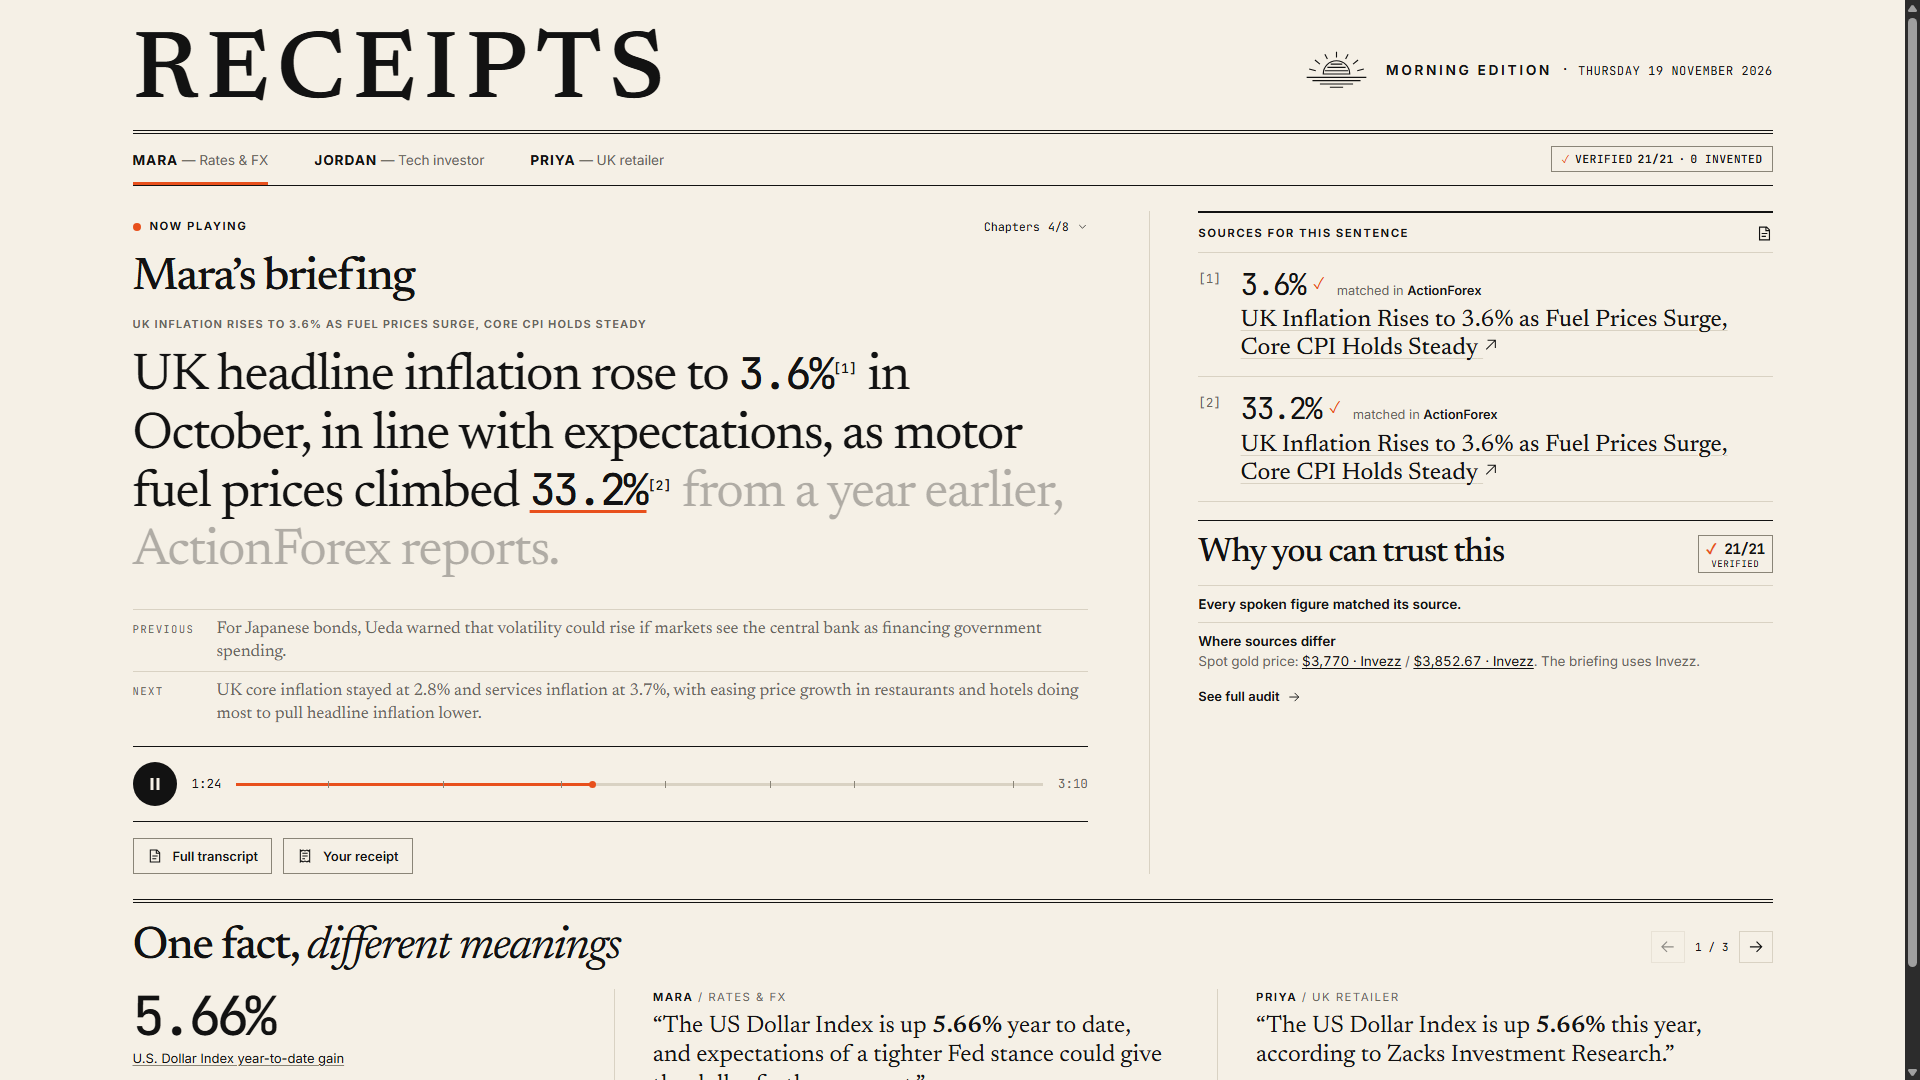
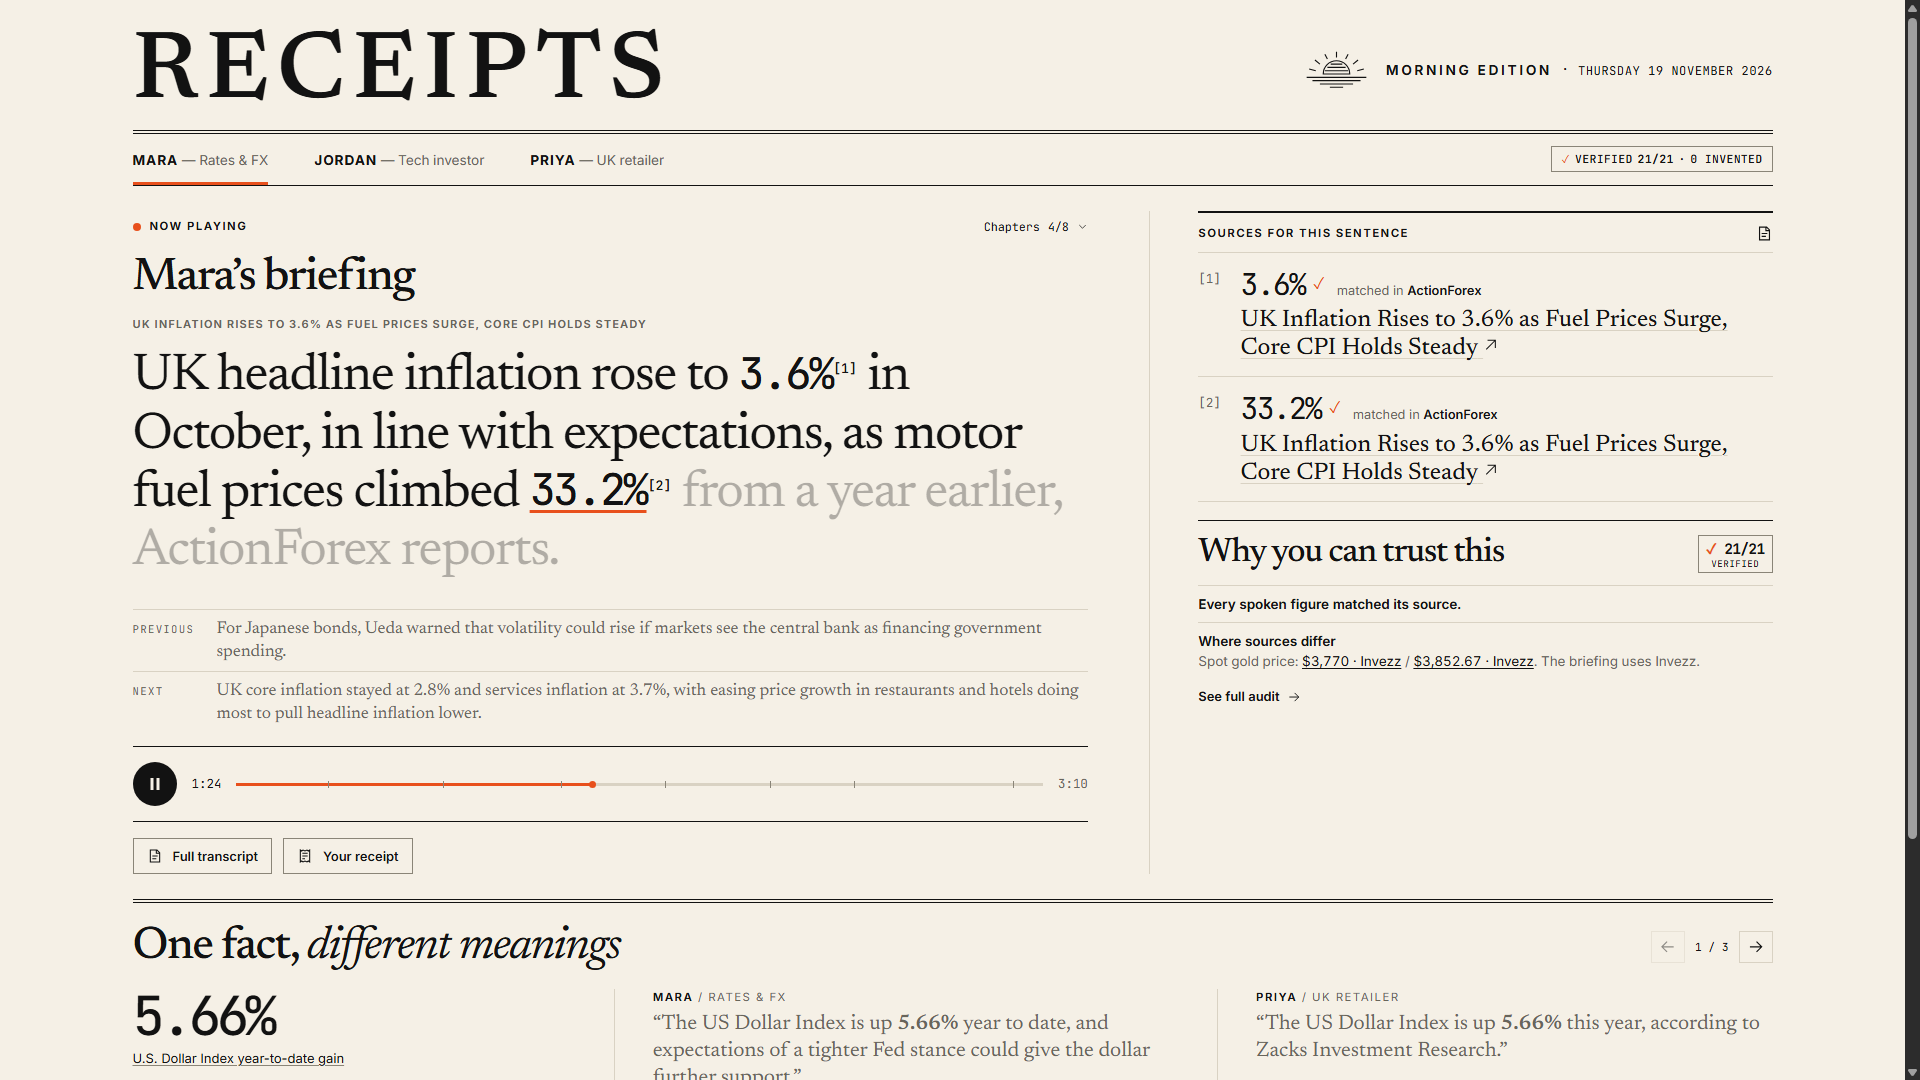
Show each listener’s read on shared figures and preview upcoming sources

Changed region(s): [[0.3438, 0.9167, 0.5938, 1.0], [0.6562, 0.9167, 0.9062, 1.0], [0.9688, 0.7944, 1.0, 0.8861]]

diff --git a/docs/player.js b/docs/player.js
@@ -273,12 +273,22 @@ function drawMarkers() {
     }),
   );
 }
-function drawEvidence(sentence, matches) {
+function drawEvidence(index) {
+  const sentence = data.sentences[index], panel = $("evidence");
+  const preview = !sentence.sources.length;
+  const cited = preview ? data.sentences.slice(index + 1).find((line) => line.sources.length) : sentence;
+  panel.classList.toggle("preview", preview);
+  if (!cited) {
+    panel.replaceChildren(el("p", "No further sources in this briefing.", "empty-evidence"));
+    return;
+  }
+  const matches = preview ? [] : citations[index];
   const items = [];
+  if (preview) items.push(el("p", "Up next", "up-next"));
   const matchedLinks = new Set(matches.map((m) => m.item.link));
   const entries = [
     ...matches.map((m) => m.item),
-    ...sentence.sources.filter((s) => !matchedLinks.has(s.link)),
+    ...cited.sources.filter((s) => !matchedLinks.has(s.link)),
   ];
   entries.forEach((source, index) => {
     const row = el("div", null, "source-item");
@@ -294,10 +304,11 @@ function drawEvidence(sentence, matches) {
     headline.append(" ", icon("link"));
     meta.append(outlet);
     details.append(meta, headline);
-    row.append(el("span", "[" + (index + 1) + "]", "ref"), details);
+    if (!preview) row.append(el("span", "[" + (index + 1) + "]", "ref"));
+    row.append(details);
     items.push(row);
   });
-  $("evidence").replaceChildren(...(items.length ? items : [el("p", "No article cited in this sentence.", "empty-evidence")]));
+  panel.replaceChildren(...items);
 }
 
 function showSentence(index) {
@@ -315,7 +326,7 @@ function showSentence(index) {
   const lyric = $("lyric");
   lyric.replaceChildren();
   evidenceText(lyric, sentence, citations[index]);
-  drawEvidence(sentence, citations[index]);
+  drawEvidence(index);
   activeWords = [...lyric.querySelectorAll(".word"), ...row.querySelectorAll(".word")];
   wordKey = "";
   for (const [id, offset] of [["previous", -1], ["next", 1]]) {
@@ -397,7 +408,7 @@ function drawTrust() {
   } else {
     note("Every spoken figure matched its source.");
   }
-  const conflict = data.conflicts.find((c) => ["a", "b"].includes(c.used)) || data.conflicts[0];
+  const conflict = data.conflicts.find((c) => ["a", "b"].includes(c.used));
   if (conflict) {
     const detail = note("Where sources differ");
     detail.append(conflict.measure + ": ");
@@ -405,7 +416,7 @@ function drawTrust() {
       if (side === "b") detail.append(" / ");
       detail.append(link(conflict["value_" + side] + " · " + conflict["outlet_" + side], conflict["link_" + side]));
     }
-    detail.append(conflict.used ? ". The briefing uses " + conflict["outlet_" + conflict.used] + "." : ". Neither figure appears in this briefing.");
+    detail.append(". The briefing uses " + conflict["outlet_" + conflict.used] + ".");
   }
 }
 function drawAudit() {
@@ -488,6 +499,38 @@ function drawReceipt() {
     ...Object.entries(totals).flatMap(([k, v]) => [el("span", k), el("strong", v)]),
   );
 }
+function hasMarketConsequence(text) {
+  const market = /\b(?:markets?|dollar|sterling|yen|euro|bonds?|gilts?|yields?|shares?|equities|gold|bullion|crude|brent)\b/i;
+  const effect = /\b(?:support(?:s|ed|ing)?|pressure|headwinds?|tailwinds?|weigh(?:s|ed|ing)? on|strengthen(?:s|ed|ing)?|weaken(?:s|ed|ing)?|firmer|(?:could|may|would|might) (?:rise|fall|gain|drop|lift|keep))\b/i;
+  return market.test(text) && effect.test(text);
+}
+
+function listenerMeaning(briefing, fact) {
+  if (!briefing) return null;
+  const { listener, sentences } = briefing;
+  const quote = fact.listeners[listener].sentence;
+  const anchor = sentences.findIndex((s) => s.text === quote && s.sources.some((src) => src.link === fact.link));
+  if (anchor < 0) return null;
+  const story = sentences[anchor].story;
+  let first = anchor, end = anchor + 1;
+  while (first > 0 && sentences[first - 1].story === story) first--;
+  while (end < sentences.length && sentences[end].story === story) end++;
+  const lines = sentences.slice(first, end).filter((s) => s.sources.length);
+  let line;
+  if (listener === "priya") {
+    line = lines.find((s) => /^For your business\b/i.test(s.text));
+  } else {
+    // Mara's editorial rule puts the market consequence at the end of the story.
+    line = lines.findLast((s) => hasMarketConsequence(s.text))
+      || sentences.slice(anchor + 1, end).find((s) => s.sources.length);
+  }
+  if (!line) return null;
+  // If the quote itself contains the implication, pull out its spoken second clause.
+  const tail = line.text === quote && line.text.match(/, and (.+)$/i)?.[1];
+  const text = tail && hasMarketConsequence(tail) ? "… " + tail : line.text;
+  return { text, sources: line.sources };
+}
+
 async function extras() {
   const [shared, costs] = await Promise.allSettled([
     json("shared_facts.json"),
@@ -496,6 +539,8 @@ async function extras() {
   if (shared.status === "fulfilled") {
     const facts = shared.value.filter((f) => f.listeners.mara && f.listeners.priya);
     if (facts.length) {
+      const [mara, priya] = await Promise.all([records.get("mara"), records.get("priya")]);
+      const briefings = { mara, priya };
       let index = 0;
       function showFact() {
         const fact = facts[index];
@@ -512,6 +557,19 @@ async function extras() {
           if (at >= 0) quote.append("“" + sentence.slice(0, at), el("mark", spoken_value), sentence.slice(at + spoken_value.length) + "”");
           else quote.textContent = "“" + sentence + "”";
           angle.append(caption, quote);
+          const meaning = listenerMeaning(briefings[id], fact);
+          if (meaning) {
+            const detail = el("div", null, "angle-meaning");
+            detail.append(el("h4", "What it means for " + briefings[id].name), el("p", meaning.text));
+            const sources = el("div", null, "meaning-sources");
+            for (const source of meaning.sources) {
+              const a = link(source.outlet, source.link);
+              a.title = source.headline;
+              sources.append(a);
+            }
+            detail.append(sources);
+            angle.append(detail);
+          }
           article.append(angle);
         }
         $("facts").replaceChildren(article);

diff --git a/web/player.js b/web/player.js
@@ -273,12 +273,22 @@ function drawMarkers() {
     }),
   );
 }
-function drawEvidence(sentence, matches) {
+function drawEvidence(index) {
+  const sentence = data.sentences[index], panel = $("evidence");
+  const preview = !sentence.sources.length;
+  const cited = preview ? data.sentences.slice(index + 1).find((line) => line.sources.length) : sentence;
+  panel.classList.toggle("preview", preview);
+  if (!cited) {
+    panel.replaceChildren(el("p", "No further sources in this briefing.", "empty-evidence"));
+    return;
+  }
+  const matches = preview ? [] : citations[index];
   const items = [];
+  if (preview) items.push(el("p", "Up next", "up-next"));
   const matchedLinks = new Set(matches.map((m) => m.item.link));
   const entries = [
     ...matches.map((m) => m.item),
-    ...sentence.sources.filter((s) => !matchedLinks.has(s.link)),
+    ...cited.sources.filter((s) => !matchedLinks.has(s.link)),
   ];
   entries.forEach((source, index) => {
     const row = el("div", null, "source-item");
@@ -294,10 +304,11 @@ function drawEvidence(sentence, matches) {
     headline.append(" ", icon("link"));
     meta.append(outlet);
     details.append(meta, headline);
-    row.append(el("span", "[" + (index + 1) + "]", "ref"), details);
+    if (!preview) row.append(el("span", "[" + (index + 1) + "]", "ref"));
+    row.append(details);
     items.push(row);
   });
-  $("evidence").replaceChildren(...(items.length ? items : [el("p", "No article cited in this sentence.", "empty-evidence")]));
+  panel.replaceChildren(...items);
 }
 
 function showSentence(index) {
@@ -315,7 +326,7 @@ function showSentence(index) {
   const lyric = $("lyric");
   lyric.replaceChildren();
   evidenceText(lyric, sentence, citations[index]);
-  drawEvidence(sentence, citations[index]);
+  drawEvidence(index);
   activeWords = [...lyric.querySelectorAll(".word"), ...row.querySelectorAll(".word")];
   wordKey = "";
   for (const [id, offset] of [["previous", -1], ["next", 1]]) {
@@ -397,7 +408,7 @@ function drawTrust() {
   } else {
     note("Every spoken figure matched its source.");
   }
-  const conflict = data.conflicts.find((c) => ["a", "b"].includes(c.used)) || data.conflicts[0];
+  const conflict = data.conflicts.find((c) => ["a", "b"].includes(c.used));
   if (conflict) {
     const detail = note("Where sources differ");
     detail.append(conflict.measure + ": ");
@@ -405,7 +416,7 @@ function drawTrust() {
       if (side === "b") detail.append(" / ");
       detail.append(link(conflict["value_" + side] + " · " + conflict["outlet_" + side], conflict["link_" + side]));
     }
-    detail.append(conflict.used ? ". The briefing uses " + conflict["outlet_" + conflict.used] + "." : ". Neither figure appears in this briefing.");
+    detail.append(". The briefing uses " + conflict["outlet_" + conflict.used] + ".");
   }
 }
 function drawAudit() {
@@ -488,6 +499,38 @@ function drawReceipt() {
     ...Object.entries(totals).flatMap(([k, v]) => [el("span", k), el("strong", v)]),
   );
 }
+function hasMarketConsequence(text) {
+  const market = /\b(?:markets?|dollar|sterling|yen|euro|bonds?|gilts?|yields?|shares?|equities|gold|bullion|crude|brent)\b/i;
+  const effect = /\b(?:support(?:s|ed|ing)?|pressure|headwinds?|tailwinds?|weigh(?:s|ed|ing)? on|strengthen(?:s|ed|ing)?|weaken(?:s|ed|ing)?|firmer|(?:could|may|would|might) (?:rise|fall|gain|drop|lift|keep))\b/i;
+  return market.test(text) && effect.test(text);
+}
+
+function listenerMeaning(briefing, fact) {
+  if (!briefing) return null;
+  const { listener, sentences } = briefing;
+  const quote = fact.listeners[listener].sentence;
+  const anchor = sentences.findIndex((s) => s.text === quote && s.sources.some((src) => src.link === fact.link));
+  if (anchor < 0) return null;
+  const story = sentences[anchor].story;
+  let first = anchor, end = anchor + 1;
+  while (first > 0 && sentences[first - 1].story === story) first--;
+  while (end < sentences.length && sentences[end].story === story) end++;
+  const lines = sentences.slice(first, end).filter((s) => s.sources.length);
+  let line;
+  if (listener === "priya") {
+    line = lines.find((s) => /^For your business\b/i.test(s.text));
+  } else {
+    // Mara's editorial rule puts the market consequence at the end of the story.
+    line = lines.findLast((s) => hasMarketConsequence(s.text))
+      || sentences.slice(anchor + 1, end).find((s) => s.sources.length);
+  }
+  if (!line) return null;
+  // If the quote itself contains the implication, pull out its spoken second clause.
+  const tail = line.text === quote && line.text.match(/, and (.+)$/i)?.[1];
+  const text = tail && hasMarketConsequence(tail) ? "… " + tail : line.text;
+  return { text, sources: line.sources };
+}
+
 async function extras() {
   const [shared, costs] = await Promise.allSettled([
     json("shared_facts.json"),
@@ -496,6 +539,8 @@ async function extras() {
   if (shared.status === "fulfilled") {
     const facts = shared.value.filter((f) => f.listeners.mara && f.listeners.priya);
     if (facts.length) {
+      const [mara, priya] = await Promise.all([records.get("mara"), records.get("priya")]);
+      const briefings = { mara, priya };
       let index = 0;
       function showFact() {
         const fact = facts[index];
@@ -512,6 +557,19 @@ async function extras() {
           if (at >= 0) quote.append("“" + sentence.slice(0, at), el("mark", spoken_value), sentence.slice(at + spoken_value.length) + "”");
           else quote.textContent = "“" + sentence + "”";
           angle.append(caption, quote);
+          const meaning = listenerMeaning(briefings[id], fact);
+          if (meaning) {
+            const detail = el("div", null, "angle-meaning");
+            detail.append(el("h4", "What it means for " + briefings[id].name), el("p", meaning.text));
+            const sources = el("div", null, "meaning-sources");
+            for (const source of meaning.sources) {
+              const a = link(source.outlet, source.link);
+              a.title = source.headline;
+              sources.append(a);
+            }
+            detail.append(sources);
+            angle.append(detail);
+          }
           article.append(angle);
         }
         $("facts").replaceChildren(article);

diff --git a/docs/player.css b/docs/player.css
@@ -139,6 +139,9 @@ h2, h3 { font: 500 2rem/1.05 var(--serif); letter-spacing: -.035em; }
 .headline { display: inline; font: 450 clamp(18px, 1.25vw, 24px)/1.17 var(--serif); text-decoration-color: var(--rule); }
 .headline .icon { width: .65em; height: .65em; vertical-align: .05em; }
 .empty-evidence { padding: 17px 0; color: var(--secondary); font: italic 1.18rem/1.3 var(--serif); }
+.preview { color: var(--secondary); }
+.up-next { padding-top: 12px; font: 600 .74rem/1.4 var(--ui); }
+.preview .source-item { display: block; padding-top: 6px; }
 .trust { margin-top: 18px; padding-top: 14px; border-top: 1px solid var(--ink); }
 .trust-head { display: flex; align-items: center; justify-content: space-between; gap: 10px; margin-bottom: 12px; }
 .trust h2 { font-size: clamp(27px, 1.9vw, 34px); }
@@ -165,8 +168,17 @@ h2, h3 { font: 500 2rem/1.05 var(--serif); letter-spacing: -.035em; }
 .angle { padding-left: clamp(20px, 2vw, 38px); border-left: 1px solid var(--rule); }
 .angle figcaption { margin-bottom: 6px; }
 .angle figcaption span { font-weight: 400; color: var(--secondary); }
-.angle blockquote { font: 400 clamp(18px, 1.3vw, 24px)/1.22 var(--serif); }
+.angle blockquote { font: 400 clamp(18px, 1.1vw, 21px)/1.28 var(--serif); color: var(--secondary); }
 .angle mark { background: transparent; color: inherit; font-weight: 600; }
+.angle-meaning { align-self: start; border-top: 2px solid var(--ink); margin-top: 12px; padding-top: 9px; }
+.angle-meaning h4 { margin: 0 0 6px; font: 700 .74rem/1.4 var(--ui); letter-spacing: .075em; text-transform: uppercase; }
+.angle-meaning p { font: 550 clamp(21px, 1.4vw, 26px)/1.18 var(--serif); }
+.meaning-sources { display: flex; flex-wrap: wrap; gap: 4px 12px; margin-top: 6px; color: var(--secondary); font-size: .74rem; }
+@media (min-width: 741px) {
+  .fact { row-gap: 0; }
+  .fact > div, .angle { grid-row: 1 / span 3; }
+  .angle { display: grid; grid-template-rows: subgrid; }
+}
 #foot { border-top: 1px solid var(--ink); padding: 15px 0 25px; display: flex; justify-content: space-between; align-items: baseline; gap: 12px; }
 #foot strong { font: 500 1.05rem/1.4 var(--serif); }
 #foot small { font: .68rem/1.6 var(--mono); color: var(--secondary); }

diff --git a/web/player.css b/web/player.css
@@ -139,6 +139,9 @@ h2, h3 { font: 500 2rem/1.05 var(--serif); letter-spacing: -.035em; }
 .headline { display: inline; font: 450 clamp(18px, 1.25vw, 24px)/1.17 var(--serif); text-decoration-color: var(--rule); }
 .headline .icon { width: .65em; height: .65em; vertical-align: .05em; }
 .empty-evidence { padding: 17px 0; color: var(--secondary); font: italic 1.18rem/1.3 var(--serif); }
+.preview { color: var(--secondary); }
+.up-next { padding-top: 12px; font: 600 .74rem/1.4 var(--ui); }
+.preview .source-item { display: block; padding-top: 6px; }
 .trust { margin-top: 18px; padding-top: 14px; border-top: 1px solid var(--ink); }
 .trust-head { display: flex; align-items: center; justify-content: space-between; gap: 10px; margin-bottom: 12px; }
 .trust h2 { font-size: clamp(27px, 1.9vw, 34px); }
@@ -165,8 +168,17 @@ h2, h3 { font: 500 2rem/1.05 var(--serif); letter-spacing: -.035em; }
 .angle { padding-left: clamp(20px, 2vw, 38px); border-left: 1px solid var(--rule); }
 .angle figcaption { margin-bottom: 6px; }
 .angle figcaption span { font-weight: 400; color: var(--secondary); }
-.angle blockquote { font: 400 clamp(18px, 1.3vw, 24px)/1.22 var(--serif); }
+.angle blockquote { font: 400 clamp(18px, 1.1vw, 21px)/1.28 var(--serif); color: var(--secondary); }
 .angle mark { background: transparent; color: inherit; font-weight: 600; }
+.angle-meaning { align-self: start; border-top: 2px solid var(--ink); margin-top: 12px; padding-top: 9px; }
+.angle-meaning h4 { margin: 0 0 6px; font: 700 .74rem/1.4 var(--ui); letter-spacing: .075em; text-transform: uppercase; }
+.angle-meaning p { font: 550 clamp(21px, 1.4vw, 26px)/1.18 var(--serif); }
+.meaning-sources { display: flex; flex-wrap: wrap; gap: 4px 12px; margin-top: 6px; color: var(--secondary); font-size: .74rem; }
+@media (min-width: 741px) {
+  .fact { row-gap: 0; }
+  .fact > div, .angle { grid-row: 1 / span 3; }
+  .angle { display: grid; grid-template-rows: subgrid; }
+}
 #foot { border-top: 1px solid var(--ink); padding: 15px 0 25px; display: flex; justify-content: space-between; align-items: baseline; gap: 12px; }
 #foot strong { font: 500 1.05rem/1.4 var(--serif); }
 #foot small { font: .68rem/1.6 var(--mono); color: var(--secondary); }
